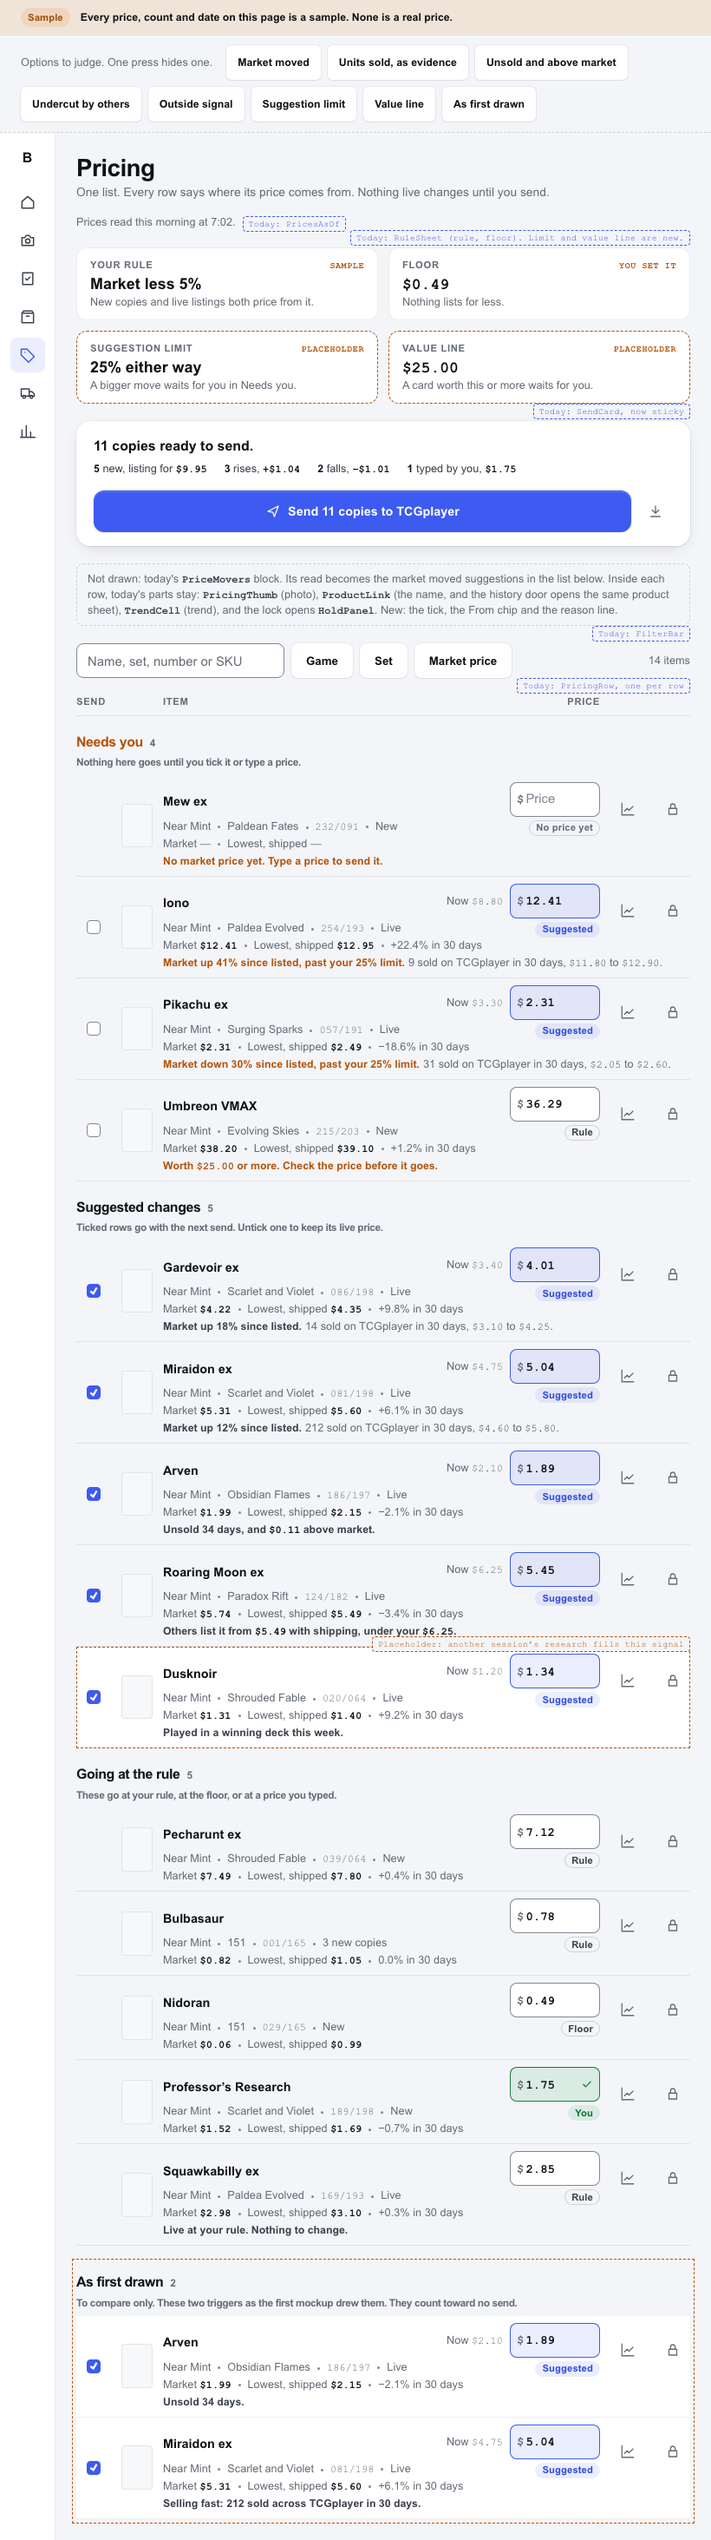
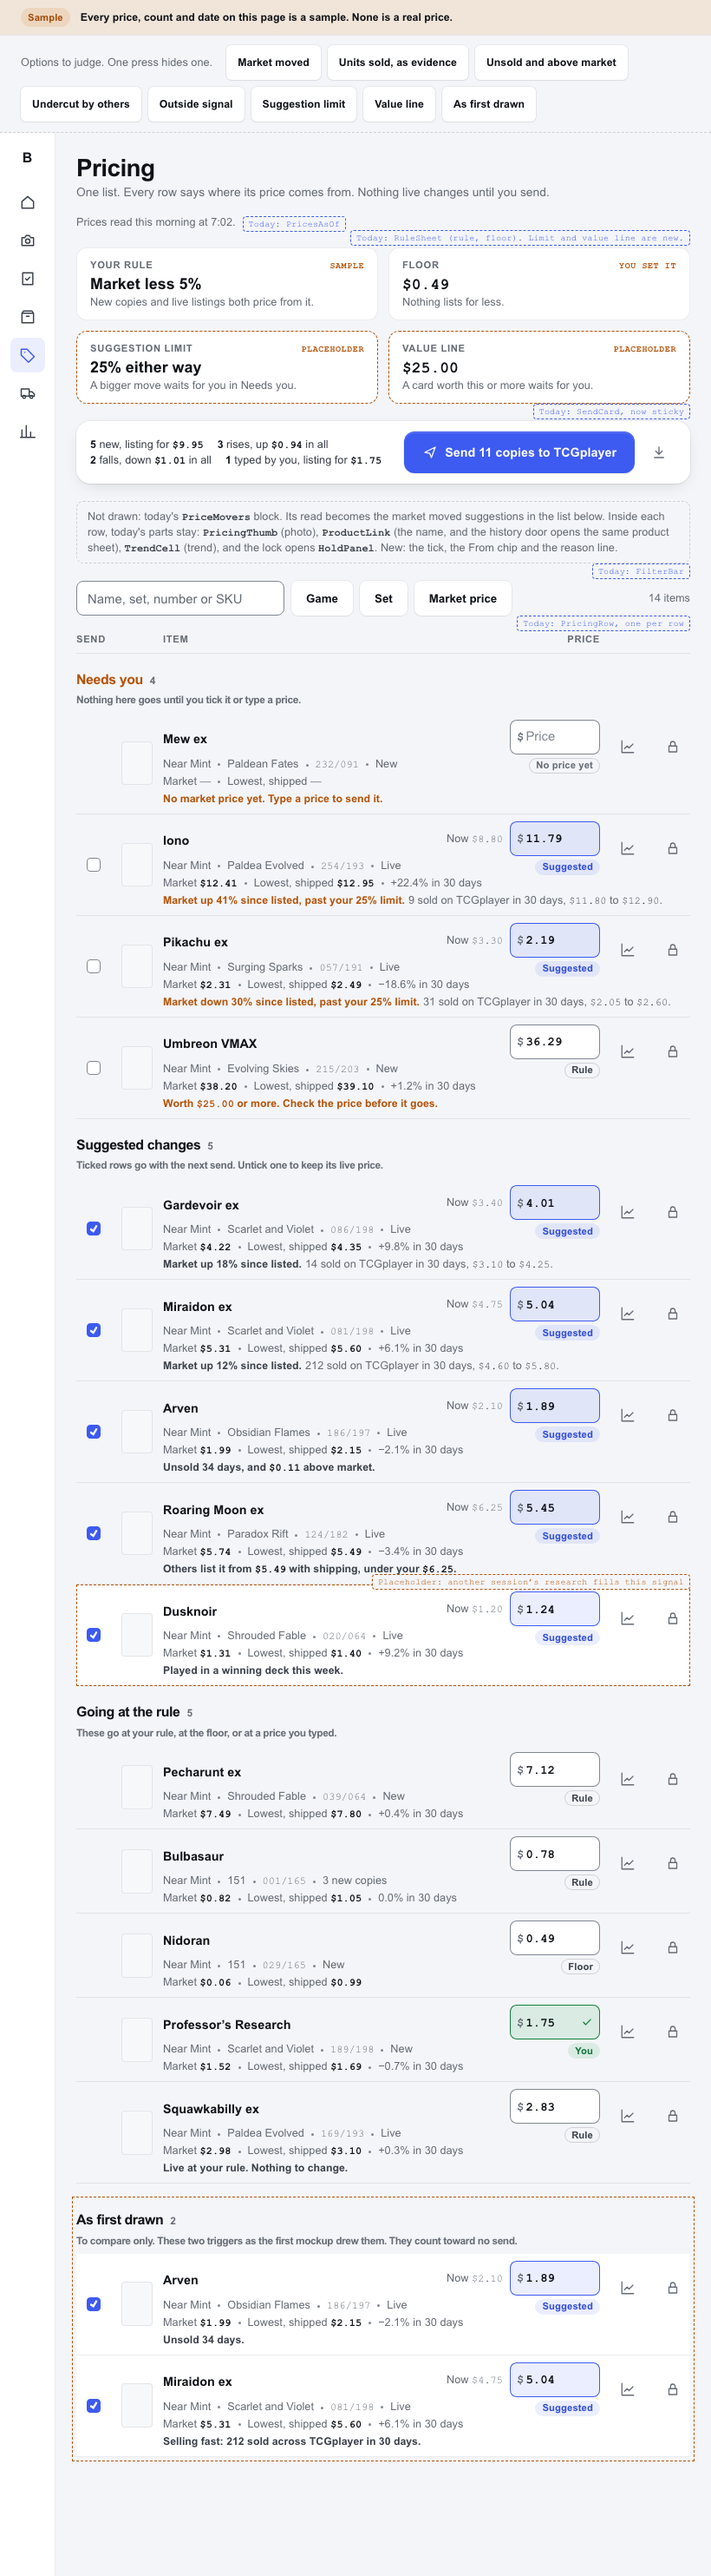
design: pricing list mockup, round 3 fixes
Done: opaque sticky ribbon with no gap, one-row send bar at 820, every rule price is market
less 5% to the cent, sticky sidebar, send totals read up and down in all, 40px name links,
trend label on one line.
Next: the owner rules on each trigger and sets the limit and value line.

diff --git a/docs/design/pricing-suggest/list.html b/docs/design/pricing-suggest/list.html
@@ -38,7 +38,7 @@
 
   /* ---------- mockup-only layer: the sample ribbon, the cull strip, the "Today:" tags ---------- */
   .mock-ribbon { position: sticky; top: 0; z-index: 6; height: 40px; display: flex; align-items: center; gap: var(--bn-3);
-                 padding: 0 var(--bn-6); background: var(--bn-warn-tint); color: var(--bn-ink); font-size: var(--bn-fs-sm); font-weight: 600;
+                 padding: 0 var(--bn-6); background: linear-gradient(var(--bn-warn-tint), var(--bn-warn-tint)), var(--bn-bg); color: var(--bn-ink); font-size: var(--bn-fs-sm); font-weight: 600;
                  box-shadow: 0 1px 0 var(--bn-line); }
   .mock-ribbon .bn-pill { flex: none; }
   .cull { display: flex; flex-wrap: wrap; align-items: center; gap: var(--bn-2); padding: var(--bn-3) var(--bn-6);
@@ -60,7 +60,7 @@
 
   /* ---------- the shell: sidebar at 1440, rail at 820 ---------- */
   .app { display: flex; align-items: stretch; }
-  .side { flex: none; width: var(--bn-sidebar-w, 236px); background: var(--bn-surface); border-right: 1px solid var(--bn-line);
+  .side { position: sticky; top: 40px; height: calc(100vh - 40px); align-self: flex-start; flex: none; width: var(--bn-sidebar-w, 236px); background: var(--bn-surface); border-right: 1px solid var(--bn-line);
           padding: var(--bn-4) var(--bn-3); display: flex; flex-direction: column; gap: var(--bn-1); }
   .frame[data-w='1440'] .side { width: 236px; }
   .frame[data-w='820'] .side { width: 64px; padding: var(--bn-4) var(--bn-3); align-items: center; }
@@ -94,7 +94,7 @@
   .set-says { font-size: var(--bn-fs-sm); color: var(--bn-ink-3); }
 
   /* The send bar: sticky under the ribbon, so the count and the money stay in view. */
-  .send { position: sticky; top: calc(40px + var(--bn-2)); z-index: 5;
+  .send { position: sticky; top: 40px; z-index: 5;
           display: grid; grid-template-columns: minmax(0, 1fr) auto; align-items: center; gap: var(--bn-4);
           padding: var(--bn-4) var(--bn-5); border-radius: var(--bn-r-xl); background: var(--bn-surface);
           box-shadow: var(--bn-shadow-2); }
@@ -117,7 +117,7 @@
   /* ---------- the one list: rows and group titles sit on the page's own left edge ---------- */
   .list { display: flex; flex-direction: column; }
   .cols { display: grid; column-gap: var(--bn-3);
-          grid-template-columns: 40px 36px minmax(0, 1fr) 72px 92px 96px 200px 84px 40px 40px; }
+          grid-template-columns: 40px 36px minmax(0, 1fr) 72px 92px 116px 200px 84px 40px 40px; }
   .caption { align-items: end; padding-bottom: var(--bn-2); font-size: var(--bn-fs-xs); font-weight: 600; color: var(--bn-ink-3);
              letter-spacing: var(--bn-tracking-caps); text-transform: uppercase; border-bottom: 1px solid var(--bn-line); line-height: 1.3; }
   .caption .num { text-align: right; }
@@ -140,7 +140,7 @@
   .thumb { width: 36px; aspect-ratio: 5 / 7; border-radius: var(--bn-r-xs); background: var(--bn-surface-3);
            box-shadow: inset 0 0 0 1px var(--bn-line); }
   .item { min-width: 0; display: flex; flex-direction: column; }
-  .name { min-height: 40px; display: flex; align-items: center; font-weight: 600; color: var(--bn-ink); text-decoration: none;
+  .name { min-height: 40px; min-width: 40px; display: flex; align-items: center; font-weight: 600; color: var(--bn-ink); text-decoration: none;
           overflow: hidden; text-overflow: ellipsis; white-space: nowrap; align-self: flex-start; max-width: 100%; }
   .name:hover { text-decoration: underline; }
   /* One line; the separator is drawn before each item after the first, so a line never ends on a dot. */
@@ -205,8 +205,10 @@
   .src-inline { display: none; }
   .frame[data-w='820'] .src-inline { display: inline-flex; }
   .frame[data-w='820'] .settings { grid-template-columns: repeat(2, minmax(0, 1fr)); }
-  .frame[data-w='820'] .send { grid-template-columns: minmax(0, 1fr); }
-  .frame[data-w='820'] .send-press { flex: 1; }
+  .frame[data-w='820'] .send { padding: var(--bn-3) var(--bn-4); gap: var(--bn-3); }
+  .frame[data-w='820'] .send-head { display: none; }
+  .frame[data-w='820'] .send-parts { gap: 0 var(--bn-4); }
+  .frame[data-w='820'] .send-press { min-width: 0; }
   .frame[data-w='820'] .group-lede { display: block; margin: 0; width: 100%; }
   .frame[data-w='820'] .group-head { flex-wrap: wrap; }
   .frame[data-w='820'] .filters .bn-input { width: 240px; }
@@ -316,7 +318,6 @@
   }
   const svg = (n, s = 18) => `<svg width="${s}" height="${s}" viewBox="0 0 24 24" fill="none" stroke="currentColor" stroke-width="1.75" stroke-linecap="round" stroke-linejoin="round"><path d="${PATH[n]}"/></svg>`
   const $ = (v) => `<span class="bn-money">$${v.toFixed(2)}</span>`
-  const signed = (v) => `<span class="bn-money">${v < 0 ? '−' : '+'}$${Math.abs(v).toFixed(2)}</span>`
   const NAV = [['home', 'Home'], ['camera', 'Capture'], ['review', 'Review'], ['box', 'Inventory'], ['tag', 'Pricing'], ['truck', 'Orders'], ['chart', 'Revenue']]
 
   /* ---- the options the owner judges; one press hides one ---- */
@@ -371,6 +372,13 @@
         why: 'Selling fast: 212 sold across TCGplayer in 30 days.', tick: true, spark: [4, 4, 5, 5, 5, 5, 6, 6], pct: '+6.1%' },
     ] },
   ]
+  const FLOOR = 49
+  const rulePrice = (market) => Math.max(FLOOR, Math.floor((Math.round(market * 100) * 95 + 50) / 100)) / 100
+  for (const r of G.flatMap((g) => g.rows)) {
+    if (r.market === null || !['Rule', 'Suggested', 'Floor'].includes(r.src)) continue
+    r.price = rulePrice(r.market)
+    if (r.still) r.now = r.price
+  }
   const ROWS = G.flatMap((g) => g.rows.map((r) => Object.assign(r, { group: g })))
   ROWS.forEach((r, i) => { r.id = `r${i}` })
   const off = (r) => (r.opt && hidden.has(r.opt)) || (r.group.opt && hidden.has(r.group.opt))
@@ -433,9 +441,9 @@
     root.querySelector('[data-send-head]').textContent = `${copies(t.units)} ready to send.`
     root.querySelector('[data-send-parts]').innerHTML =
       `<span><b>${t.fresh}</b> new, listing for ${$(t.freshCash)}</span>` +
-      `<span><b>${t.up}</b> ${t.up === 1 ? 'rise' : 'rises'}, ${signed(t.upCash)}</span>` +
-      `<span><b>${t.down}</b> ${t.down === 1 ? 'fall' : 'falls'}, ${signed(t.downCash)}</span>` +
-      `<span><b>${t.typed}</b> typed by you, ${$(t.typedCash)}</span>`
+      `<span><b>${t.up}</b> ${t.up === 1 ? 'rise' : 'rises'}, up ${$(t.upCash)} in all</span>` +
+      `<span><b>${t.down}</b> ${t.down === 1 ? 'fall' : 'falls'}, down ${$(-t.downCash)} in all</span>` +
+      `<span><b>${t.typed}</b> typed by you, listing for ${$(t.typedCash)}</span>`
     root.querySelector('[data-send-press]').innerHTML = `${svg('send', 18)}Send ${copies(t.units)} to TCGplayer`
     root.querySelector('[data-count]').textContent = `${ROWS.filter((r) => !off(r) && !r.alt).length} items`
     for (const el of root.querySelectorAll('[data-opt]')) el.hidden = hidden.has(el.dataset.opt)
